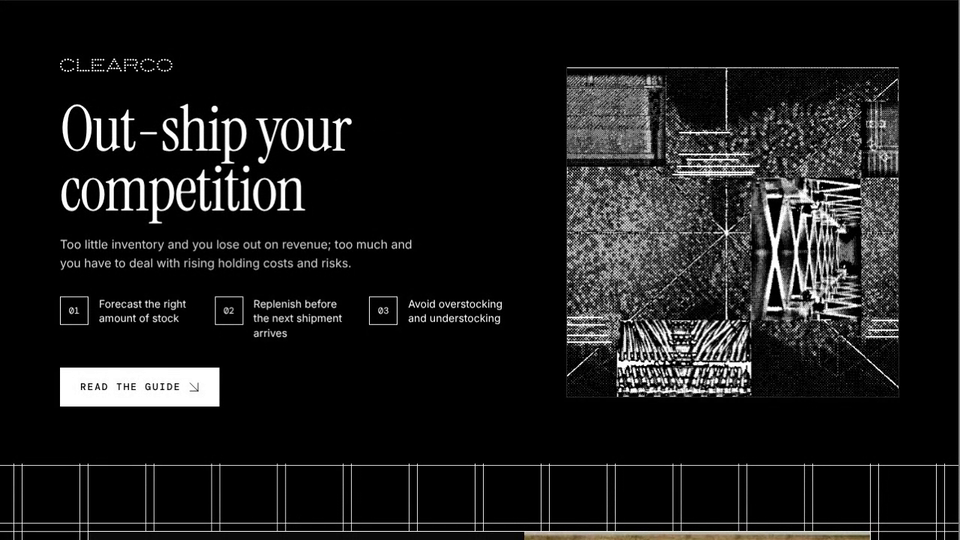
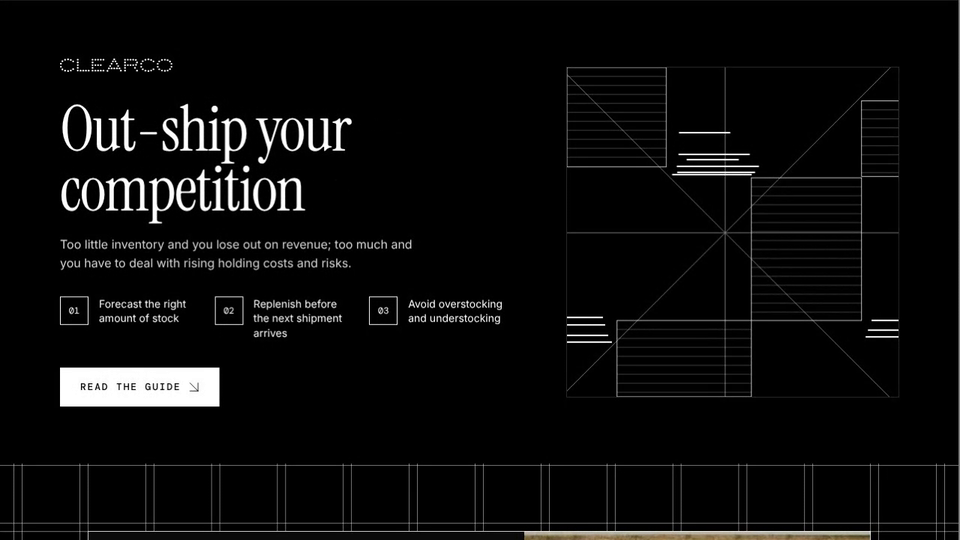
Clearco Logistics Guide: hero visual is clean vector linework with animated horizontal lines; finer 80% opacity statement grid
- Hero: replaces the halftone image with an SVG of outlined blocks, fine horizontal lines and radiating lines; the marked parallel lines still animate
- Statement grid: one-device-pixel lines at 80% opacity, card outline to match
- Re-record clip, update tile alt, remove unused hero-visual.png

Claude-Session: https://claude.ai/code/session_01AHeBdwjGFXBCupAH8deQwB

diff --git a/clearco-logistics-guide/index.html b/clearco-logistics-guide/index.html
@@ -57,7 +57,7 @@ section{padding-block:clamp(18px,2.5vw,32px)}
 .points li{display:flex;gap:14px;align-items:flex-start;font-size:14px;line-height:1.4}
 .points i{flex:none;width:38px;height:38px;border:1px solid #fff;display:grid;place-items:center;font:400 12px/1 var(--mono);font-style:normal}
 .vis{position:relative;width:min(520px,100%);margin:0 auto;box-shadow:0 0 0 1px #2a2a2a}
-.vis img{width:100%;height:auto;display:block}
+.vis svg{width:100%;height:auto;display:block}
 /* the parallel lines: each slides or breathes in length, one after another */
 .vl{position:absolute;height:2px;margin-top:-1px;background:#fff;animation:vl 6s ease-in-out infinite alternate}
 .vl.a{transform-origin:50% 50%;animation-name:vla}
@@ -74,7 +74,7 @@ section{padding-block:clamp(18px,2.5vw,32px)}
 .gridsec>.wrap{position:relative;z-index:1}
 .gridbg{position:absolute;inset:0;width:100%;height:100%;display:block;z-index:0}
 #stmt{padding-block:clamp(48px,7vw,96px)}
-#stmt .statement{outline:1px solid #fff;outline-offset:-1px}
+#stmt .statement{outline:.5px solid rgba(255,255,255,.8);outline-offset:-.5px}
 
 /* ---------- statement card (the 7shifts quote card) ---------- */
 .statement{display:grid;grid-template-columns:1.15fr 1fr;gap:clamp(24px,4vw,56px);align-items:center;padding:0;overflow:hidden}
@@ -200,7 +200,7 @@ footer .sign{margin-top:28px;color:#fff;font-size:14px}
     </ul>
     <a class="btn light" href="https://www.clear.co/blog/navigating-inventory-logistics-a-resource-for-founders">Read the guide <svg class="arr" viewBox="0 0 24 24" width="14" height="14" fill="none" stroke="currentColor" stroke-width="1.5" stroke-linecap="square" aria-hidden="true"><path d="M3 3 21 21M21 3v18M3 21h18"/></svg></a>
     </div>
-    <div class="vis"><img src="hero-visual.png" width="1036" height="1028" alt="Black and white halftone collage of warehouse and cable photography crossed by thin radiating lines, with parallel white lines that slide in and out"><i class="vl a" style="left:33.01%;width:18.15%;top:19.65%;animation-duration:5.6s;animation-delay:-0.0s"></i><i class="vl a" style="left:32.24%;width:24.13%;top:26.26%;animation-duration:6.4s;animation-delay:-0.9s"></i><i class="vl a" style="left:34.94%;width:17.18%;top:28.02%;animation-duration:7.2s;animation-delay:-1.8s"></i><i class="vl a" style="left:31.08%;width:25.10%;top:29.96%;animation-duration:5.9s;animation-delay:-2.7s"></i><i class="vl a" style="left:31.27%;width:23.75%;top:31.71%;animation-duration:6.8s;animation-delay:-3.6s"></i><i class="vl a" style="left:29.54%;width:24.13%;top:32.49%;animation-duration:7.6s;animation-delay:-4.5s"></i><i class="vl b" style="left:0.00%;width:15.83%;top:75.88%;animation-duration:5.6s;animation-delay:-0.0s"></i><i class="vl b" style="left:0.00%;width:15.44%;top:78.21%;animation-duration:6.4s;animation-delay:-0.9s"></i><i class="vl b" style="left:0.00%;width:15.44%;top:81.32%;animation-duration:7.2s;animation-delay:-1.8s"></i><i class="vl b" style="left:0.00%;width:13.71%;top:83.46%;animation-duration:5.9s;animation-delay:-2.7s"></i><i class="vl c" style="left:88.03%;width:11.97%;top:76.85%;animation-duration:5.6s;animation-delay:-0.0s"></i><i class="vl c" style="left:87.84%;width:12.16%;top:79.77%;animation-duration:6.4s;animation-delay:-0.9s"></i><i class="vl c" style="left:87.84%;width:12.16%;top:81.71%;animation-duration:7.2s;animation-delay:-1.8s"></i></div>
+    <div class="vis"><svg viewBox="0 0 518 514" width="518" height="514" role="img" aria-label="Abstract linework: outlined blocks and thin lines radiating from a centre point on black, with parallel white lines that slide in and out"><g fill="none" stroke="#fff" vector-effect="non-scaling-stroke" stroke-width="1"><path d="M0 258H518M247 0V514M0 11 503 514M0 505 505 0" opacity=".5" vector-effect="non-scaling-stroke"/><path d="M0 14H155M0 28H155M0 42H155M0 56H155M0 70H155M0 84H155M0 98H155M0 112H155M0 126H155M0 140H155M288 186H460M288 200H460M288 214H460M288 228H460M288 242H460M288 256H460M288 270H460M288 284H460M288 298H460M288 312H460M288 326H460M288 340H460M288 354H460M288 368H460M288 382H460M460 66H518M460 80H518M460 94H518M460 108H518M460 122H518M460 136H518M460 150H518M460 164H518M78 409H288M78 423H288M78 437H288M78 451H288M78 465H288M78 479H288M78 493H288M78 507H288" opacity=".26" vector-effect="non-scaling-stroke"/><g opacity=".9"><rect x="0" y="0" width="155" height="155"/><rect x="288" y="172" width="172" height="223"/><rect x="460" y="52" width="58" height="118"/><rect x="78" y="395" width="210" height="119"/></g></g></svg><i class="vl a" style="left:33.01%;width:18.15%;top:19.65%;animation-duration:5.6s;animation-delay:-0.0s"></i><i class="vl a" style="left:32.24%;width:24.13%;top:26.26%;animation-duration:6.4s;animation-delay:-0.9s"></i><i class="vl a" style="left:34.94%;width:17.18%;top:28.02%;animation-duration:7.2s;animation-delay:-1.8s"></i><i class="vl a" style="left:31.08%;width:25.10%;top:29.96%;animation-duration:5.9s;animation-delay:-2.7s"></i><i class="vl a" style="left:31.27%;width:23.75%;top:31.71%;animation-duration:6.8s;animation-delay:-3.6s"></i><i class="vl a" style="left:29.54%;width:24.13%;top:32.49%;animation-duration:7.6s;animation-delay:-4.5s"></i><i class="vl b" style="left:0.00%;width:15.83%;top:75.88%;animation-duration:5.6s;animation-delay:-0.0s"></i><i class="vl b" style="left:0.00%;width:15.44%;top:78.21%;animation-duration:6.4s;animation-delay:-0.9s"></i><i class="vl b" style="left:0.00%;width:15.44%;top:81.32%;animation-duration:7.2s;animation-delay:-1.8s"></i><i class="vl b" style="left:0.00%;width:13.71%;top:83.46%;animation-duration:5.9s;animation-delay:-2.7s"></i><i class="vl c" style="left:88.03%;width:11.97%;top:76.85%;animation-duration:5.6s;animation-delay:-0.0s"></i><i class="vl c" style="left:87.84%;width:12.16%;top:79.77%;animation-duration:6.4s;animation-delay:-0.9s"></i><i class="vl c" style="left:87.84%;width:12.16%;top:81.71%;animation-duration:7.2s;animation-delay:-1.8s"></i></div>
   </div>
 </header>
 
@@ -414,10 +414,11 @@ footer .sign{margin-top:28px;color:#fff;font-size:14px}
       var g = bg.getContext('2d');
       g.setTransform(dpr, 0, 0, dpr, 0, 0);
       g.fillStyle = '#000'; g.fillRect(0, 0, W, H);
-      g.strokeStyle = '#fff'; g.lineWidth = 1; g.globalAlpha = .9;
+      /* the statement grid uses the finest line the screen can draw (one device pixel) at 80% opacity; the banner keeps its own weight */
+      g.strokeStyle = '#fff'; g.lineWidth = mode === 'squares' ? (dpr >= 2 ? 1 / dpr : .6) : 1; g.globalAlpha = mode === 'squares' ? .8 : .9;
       g.beginPath();
-      function vline(x){ var xx = Math.round(x) + .5; g.moveTo(xx, 0); g.lineTo(xx, H); }
-      function hline(y){ var yy = Math.round(y) + .5; g.moveTo(0, yy); g.lineTo(W, yy); }
+      function vline(x){ var xx = (Math.round(x * dpr) + .5) / dpr; g.moveTo(xx, 0); g.lineTo(xx, H); }
+      function hline(y){ var yy = (Math.round(y * dpr) + .5) / dpr; g.moveTo(0, yy); g.lineTo(W, yy); }
       for (var i = -1; i <= NC; i++) if (mode === 'squares') { vline(px(i) - B / 2 - 1); vline(px(i) + B / 2); }
       for (var j = -1; j <= NR; j++) { hline(py(j) - B / 2 - 1); hline(py(j) + B / 2); }
       g.stroke();
